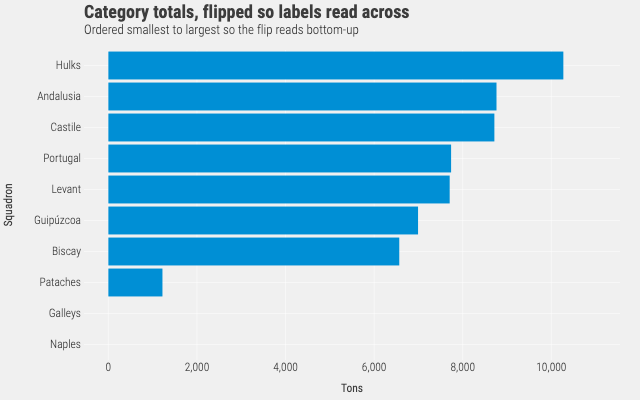
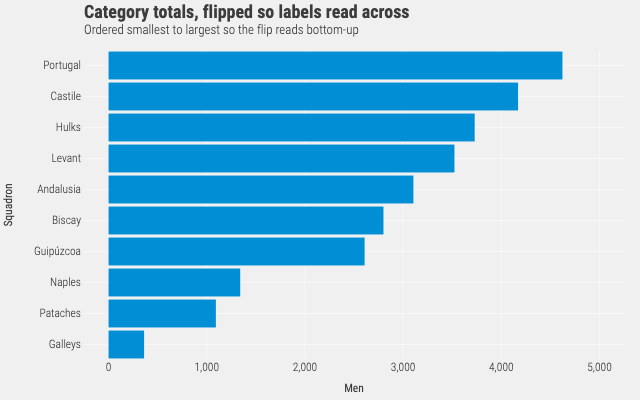
fix(examples): plot Armada men, not zero tonnage stubs
HistData records tons=0 for Naples galleasses and Portuguese galleys
because the 1588 pamphlet left tonnage blank for oared squadrons, not
because those fleets were empty. Plotting that column made the horizontal
bar showcase look broken. Switch to men (soldiers+sailors), keep all ten
squadrons ordered ascending, and recapture the gallery light.

diff --git a/examples/bar/horizontal/data.ts b/examples/bar/horizontal/data.ts
@@ -1,20 +1,29 @@
 /**
- * Total tonnage of each squadron of the Spanish Armada of 1588, by squadron, from the muster drawn up for the
- * Duke of Medina Sidonia before the fleet sailed.
+ * Men aboard each squadron of the Spanish Armada of 1588, from the muster
+ * drawn up for the Duke of Medina Sidonia before the fleet sailed.
  *
  * Transcribed from HistData::Armada (see NOTICE); 10 squadrons. Squadron names
  * are given in their common English forms - HistData carries the abbreviated
  * and partly garbled forms of the original manifest ("Vizca", "Uantiscas").
+ *
+ * Plot men (soldiers + sailors), not tons. HistData records tons = 0 for the
+ * two oared squadrons (Naples galleasses and Portuguese galleys) — tonnage was
+ * left blank in the 1588 pamphlet for those vessel types, not because the
+ * squadrons were empty. Both still have four ships and a non-zero complement;
+ * charting the zeros looked like missing data.
+ *
+ * Rows are pre-sorted ascending so CoordFlip reads smallest-to-largest
+ * bottom-up.
  */
-export const armadaTonnage = [
-  { squadron: "Naples", tons: 0 },
-  { squadron: "Galleys", tons: 0 },
-  { squadron: "Pataches", tons: 1221 },
-  { squadron: "Biscay", tons: 6567 },
-  { squadron: "Guipúzcoa", tons: 6991 },
-  { squadron: "Levant", tons: 7705 },
-  { squadron: "Portugal", tons: 7737 },
-  { squadron: "Castile", tons: 8714 },
-  { squadron: "Andalusia", tons: 8762 },
-  { squadron: "Hulks", tons: 10271 },
+export const armadaMen = [
+  { squadron: "Galleys", men: 362 },
+  { squadron: "Pataches", men: 1093 },
+  { squadron: "Naples", men: 1341 },
+  { squadron: "Guipúzcoa", men: 2608 },
+  { squadron: "Biscay", men: 2800 },
+  { squadron: "Andalusia", men: 3105 },
+  { squadron: "Levant", men: 3523 },
+  { squadron: "Hulks", men: 3729 },
+  { squadron: "Castile", men: 4171 },
+  { squadron: "Portugal", men: 4623 },
 ] as const;

diff --git a/examples/bar/horizontal/spec.ts b/examples/bar/horizontal/spec.ts
@@ -1,10 +1,10 @@
 import { aes, gg } from "@ggsvelte/spec";
 
 import { defineExample } from "../../define.js";
-import { armadaTonnage } from "./data.js";
+import { armadaMen } from "./data.js";
 
 export default defineExample(
-  gg(armadaTonnage, aes({ x: "squadron", y: "tons" }))
+  gg(armadaMen, aes({ x: "squadron", y: "men" }))
     .geomCol()
     .coordFlip()
     .theme("fivethirtyeight")
@@ -12,7 +12,7 @@ export default defineExample(
       title: "Category totals, flipped so labels read across",
       subtitle: "Ordered smallest to largest so the flip reads bottom-up",
       x: "Squadron",
-      y: "Tons",
+      y: "Men",
     })
     .spec(),
 );

diff --git a/examples/bar/horizontal/Example.svelte b/examples/bar/horizontal/Example.svelte
@@ -8,12 +8,12 @@
     ThemeFivethirtyeight,
   } from "@ggsvelte/svelte";
 
-  import { armadaTonnage } from "./data.js";
+  import { armadaMen } from "./data.js";
 </script>
 
 <GGPlot
-  data={armadaTonnage}
-  aes={{ x: "squadron", y: "tons" }}
+  data={armadaMen}
+  aes={{ x: "squadron", y: "men" }}
   width={640}
   height={400}
 >
@@ -24,7 +24,7 @@
     title="Category totals, flipped so labels read across"
     subtitle="Ordered smallest to largest so the flip reads bottom-up"
     x="Squadron"
-    y="Tons"
+    y="Men"
   />
   <Inspect mode="exact" pin />
 </GGPlot>
